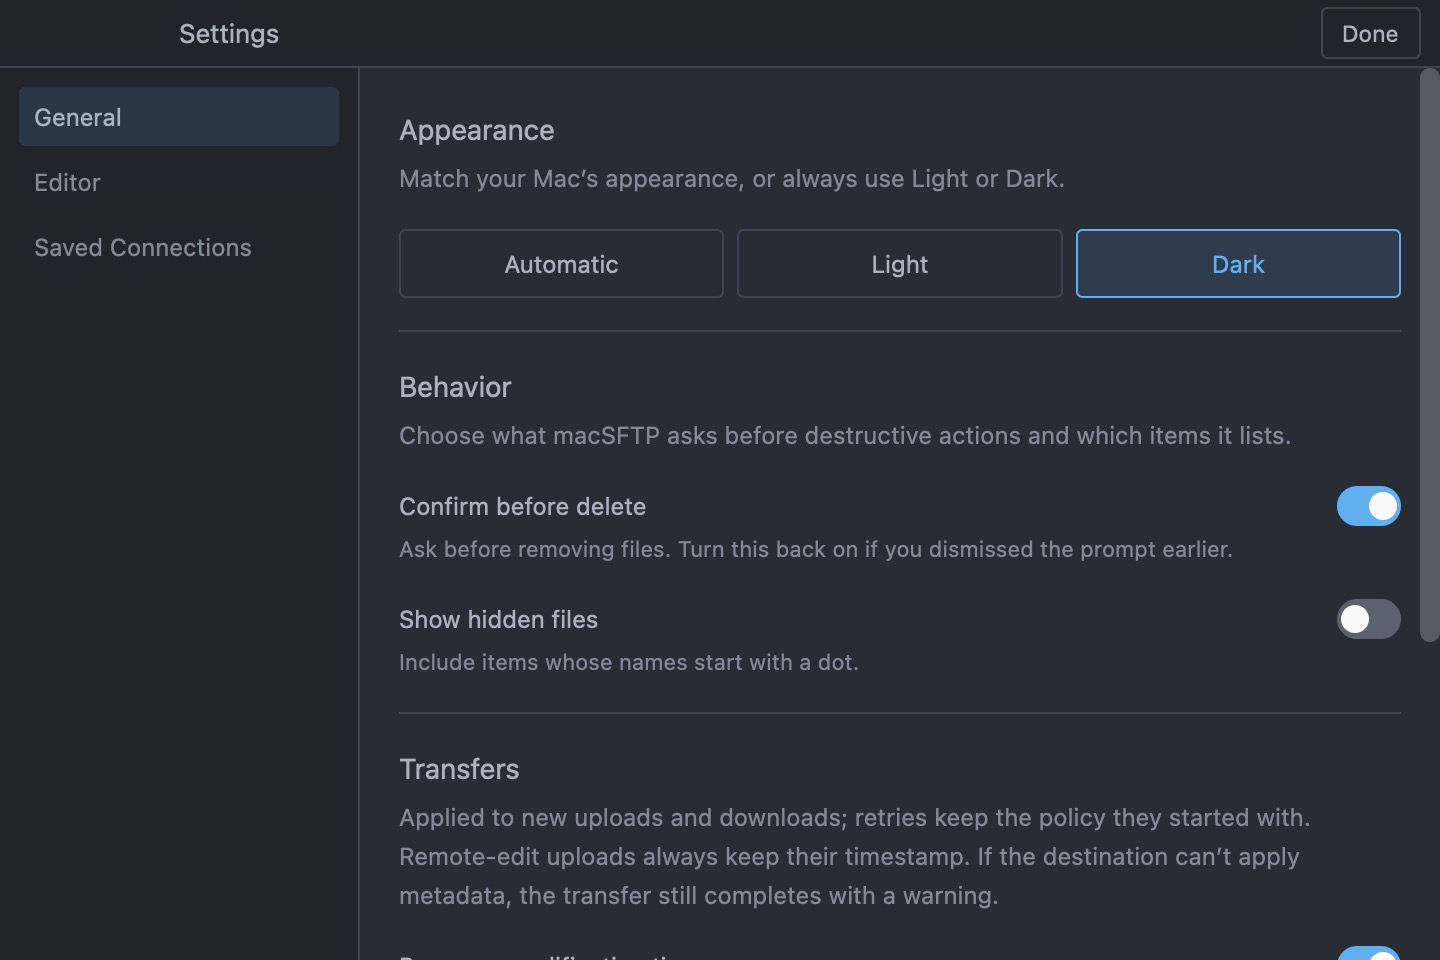
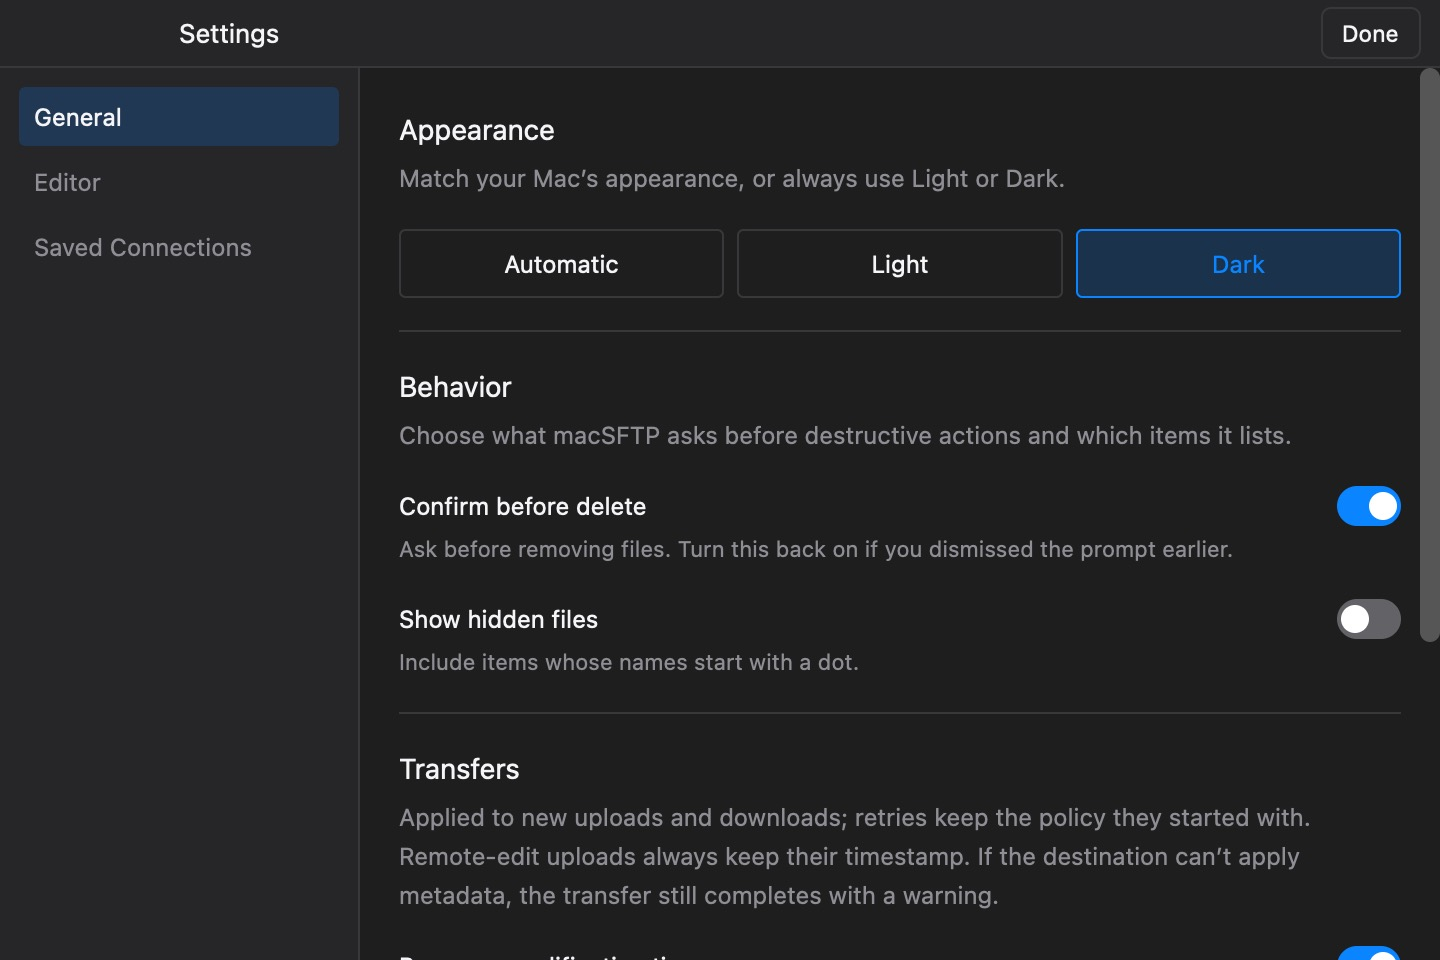
docs(visual-evidence): update architecture specs and refresh headless UX evidence captures
- Problem: Architecture documentation and committed headless Metal UX evidence captures
  needed to reflect the completed macOS Sonoma / Sequoia Apple HIG modernization pass.
- Solution:
  - Update docs/architecture.md §12.3, §12.5, §12.7, §12.8, and §12.9 with tab, path bar,
    file list selection pill, table header, modal radius, and transfer drawer specifications.
  - Regenerate all 11 headless Metal rasterizer evidence captures via
    `cargo test -p macsftp-app regenerate_workspace_ux_evidence` and convert to JPEG
    format using `sips`.
- Verification: Visual inspection of regenerated captures in light and dark modes;
  ./scripts/check.sh passes cleanly with 0 errors and 0 warnings.

diff --git a/docs/architecture.md b/docs/architecture.md
@@ -224,12 +224,14 @@ Profile 更新由 `ProfileStore` 协调：校验请求和 route → 写入或读
 - Edit 菜单使用 `MenuItem::os_action` 走 AppKit 标准 selector（`cut:`/`copy:`/`paste:`/`selectAll:`/`undo:`/`redo:`），dispatch 的仍是 `gpui-base` input action，不得自造文本编辑 action（§12.14）。
 - 平台支持 `MenuItem::checked`，但菜单栏是应用级的一份，在启动时构建一次（`main.rs` 的 `set_menus(menu_bar())`），而排序状态属于每个 tab（两个 pane 共用），单个 checkmark 无法表达多 tab 下的当前状态——要显示它就必须在排序、tab 或窗口焦点变化时重建整个菜单栏，目前不做。有状态的命令因此写成显式取值（例如 Sort By ▸ Name (A→Z)/(Z→A)）；当前排序状态的显示位置只有文件列表表头（§12.3）。
 - command palette 不得暴露 runtime、channel、actor、crate 等内部实现细节；用户忘记快捷键时必须能用 command palette 完成同一操作。
-- path bar 必须支持复制当前路径，local 和 remote 都保留 back、up、refresh；路径过长从中间省略，loading 时不得消失，只增加局部 spinner 或 progress indicator。Copy Path 复制的是选中条目自身的完整路径（多选时每行一条），只有没有选中任何条目时才回落到当前目录路径——右键菜单会先选中指针下的行，因此右键某个文件再 Copy Path 得到的必须是该文件的路径，而不是它所在目录。
+- path bar 必须支持复制当前路径，local 和 remote 都保留 back、up、refresh；路径过长从中间省略，当前所在目录以加粗突出显示（MEDIUM 字重与主文本色），上级路径以次要文本色呈现；loading 时不得消失，只增加局部 spinner 或 progress indicator。Copy Path 复制的是选中条目自身的完整路径（多选时每行一条），只有没有选中任何条目时才回落到当前目录路径——右键菜单会先选中指针下的行，因此右键某个文件再 Copy Path 得到的必须是该文件的路径，而不是它所在目录。
 - Go to Folder（⌘⇧G）必须预填当前 pane 正在显示的路径并全选：改写一段即可到达兄弟目录，不必重打整条路径。全选只作用于新创建的输入框（`select_on_first_render`），输入即替换、方向键则保留可编辑。
 
 ### 12.3 文件列表与滚动
 
 - 文件列表必须虚拟化，10k entries 不创建长期 row entity；表头显示排序状态；selection 绑定稳定 id/path，禁止绑定 row index。
+- 表头遵循 macOS Sonoma / Sequoia 原生表格规范：表头标签采用 Medium 字重，当前排序列高亮突出（Semibold 字重与系统强调色排序指示箭头），各列支持圆角悬浮背景反馈。
+- 文件行遵循 macOS 原生列表规范：行选中与悬浮采用圆角嵌入式胶囊（inset pill，5px 圆角，内嵌 4px 边距与表头对齐线精确匹配），选中行采用系统强调色浅透明高亮背景且文件名呈现 Medium 字重，未选中行支持即时微弱圆角悬浮背景；文件大小与修改时间列采用等宽字体保持列内严格对齐。
 - 键盘导航覆盖上/下、page up/down、home/end、shift 多选和 enter 默认动作；directory、file、symlink 和 hidden row 有可区分但克制的 icon 或 marker；hover action 易于发现但不改变列宽或 row 高度。
 - 聚焦的 pane 里键入字母是 Finder 式 type-select：前缀累积约 1 秒（连续按键继续同一前缀；超时、导航、切 tab、Escape 后重置），跳到第一个匹配项并滚动到它，从当前 selection 之后扫描并在末尾回绕，所以重复按同一字母会依次跳过匹配项；前缀匹配不到时退回最后键入的字符、不改变 selection。列表不缩小、不出现筛选栏。筛选只保留显式入口：⌘F（Filter Files）、菜单/palette 命令或筛选字段本身，筛选栏出现后键入才进入筛选。
 - ⌘C / ⌘V 作用于文件，采用 Finder 语义：⌘C 记住当前 pane 的选区（同时把路径写入系统剪贴板，方便粘到终端），⌘V 在**另一侧** pane 粘贴即触发对应的上传或下载。同一个 pane 内粘贴不做任何搬动，只给出说明——同侧复制需要服务端 copy 能力，当前不提供，不能假装成功。
@@ -248,7 +250,7 @@ Profile 更新由 `ProfileStore` 协调：校验请求和 route → 写入或读
 
 ### 12.5 视觉系统
 
-- 支持 dark 和 light 两套 theme token，默认值分别采用 One Dark 和 One Light；界面以中性灰阶为主，强调色只用于焦点、主操作、连接成功、选中态和进度。
+- 支持 dark 和 light 两套 theme token，默认值分别采用 macOS Native Dark 和 macOS Native Light（遵循 macOS Sonoma / Sequoia HIG 规范，兼容 One Dark / One Light 别名）；界面以中性灰阶为主，强调色只用于焦点、主操作、连接成功、选中态和进度。
 - 错误、警告、成功和信息色具有固定语义，同一颜色不得表示无关含义；颜色不能作为唯一状态表达，状态还必须包含文本或图标。
 - 层级通过边线、背景、间距和文字权重表达，不依赖厚重阴影；面板之间用 1px 分隔线或相邻背景面区分；page section 内禁止嵌套卡片。
 - 阴影只能来自 theme 的 elevation scale，按浮层等级命名，不允许调用点自行拼 shadow；三个等级有固定顺序，低等级的浮层不得看起来比高等级的更远：
@@ -274,22 +276,26 @@ remote pane 必须覆盖：`Disconnected`（提供连接或重新连接）、`Co
 - tab 显示连接名称或 host，需要区分时可以附加路径上下文。
 - tab 显示连接状态：empty、connecting、awaiting host key、connected、disconnected、failed；错误 indicator 支持键盘 focus 并能打开详情。
 - 关闭 tab 的行为必须符合传输状态：会取消 transfer 时必须要求明确确认，transfer 独立继续时不得显示错误暗示。
-- 非活动 tab 的关闭钮只在指针位于该 tab 上时出现（Safari 习惯），隐藏时不可点击，避免误关；活动 tab 常显；26×22 的关闭钮槽位恒定占位，出现或消失不得引起标题位移。
+- 非活动 tab 的关闭钮只在指针位于该 tab 上时出现（Safari 习惯），隐藏时不可点击，避免误关；活动 tab 常显；26×22 的关闭钮槽位恒定占位，出现或消失不得引起标题位移；关闭按钮悬浮时呈圆形悬浮背景（Safari 风格）。
+- 活动 tab 采用现代 macOS 嵌入式分段胶囊（inset pill）外观（独立背景、微边框、chip 阴影与加粗字重）；非活动 tab 保持无缝平铺并在 hover 时显示微弱胶囊背景。
 - tab switcher 按最近使用时间排序，不能只按创建顺序。
 - 窗口标题跟随活动 tab 的标题（无 tab 时用 app 名）：标题栏透明不显示标题，但 Mission Control 和 Window 菜单用它命名窗口，不得留空标题或让非活动 tab 的名字覆盖它。
 
 ### 12.8 Transfer Drawer
 
 - transfer drawer 是传输任务的唯一主视图，不得在多个无关位置分别显示完整进度；active、queued、completed、failed 分组，completed/failed 默认可折叠。
-- 每个 transfer row 显示方向、源、目标、状态、进度、速度、ETA 和主操作；cancel 和 retry 使用 icon button 与 tooltip，危险操作要求确认或支持撤销。
+- 分组标题（In Progress, Waiting, Complete, Failed）与抽屉主标题采用加粗/中等字重，并遵循 macOS 抽屉/分节标题排版规范。
+- 每个 transfer row 显示方向、源、目标、状态、进度、速度、ETA 和主操作；cancel 和 retry 使用 icon button 与 tooltip，危险操作要求确认或支持撤销；行条目支持圆角悬浮高亮反馈。
 - progress 更新节流，视觉变化平滑，但不得用动画隐藏真实停滞；planning 阶段持续显示已发现数量和估算总字节。
 - conflict 不是错误；等待用户决策时 row 状态必须是 `WaitingForConflictDecision`，不能显示为 failed。
 - 面板默认展开 160px，保留手动调整、最小高度和全局队列所有权；面板内提供收起按钮，底部常驻 Transfers 入口，不改变传输执行或连接安全语义。
-- 空队列提示在可用空间居中；面板高度至少 90px 时显示上传/下载说明，更小高度隐藏说明并裁切内容，保留调整入口。
+- 空队列提示在可用空间居中，采用双行层级（ lead 提示与次级说明）；面板高度至少 90px 时显示上传/下载说明，更小高度隐藏说明并裁切内容，保留调整入口。
+- 底部状态栏（Status Bar）提供清晰的连接状态指示（MEDIUM 字重状态文字与语义圆点）、选中项计数，以及常驻的 Transfers 抽屉切换胶囊按钮（抽屉展开时以系统强调色高亮激活胶囊）。
 
 ### 12.9 Modal 与 Popover
 
 - modal 只用于 host key、credential、transfer conflict、destructive confirm 和 error details；必须有标题、简短说明、主操作、取消/关闭操作和 request 绑定。
+- modal 卡片统一采用 `theme.sizes.modal_radius`（10px）圆角与 `theme.shadow_modal()`，主标题采用 SEMIBOLD 字重突出视觉层级；卡片内部详情面板（指纹、比对详情等）采用 1px 微边框和小圆角区分，不在卡片内嵌套多层卡片。
 - 主操作位于固定位置，具有危险性时使用危险语义色。
 - transfer conflict modal 显示源、目标、大小、mtime、决策选项和 apply-to-all 作用域。
 - popover 用于简短选择或详情，不得包含必须完成的阻塞决策；普通错误、加载状态和传输进度不得使用 modal。
